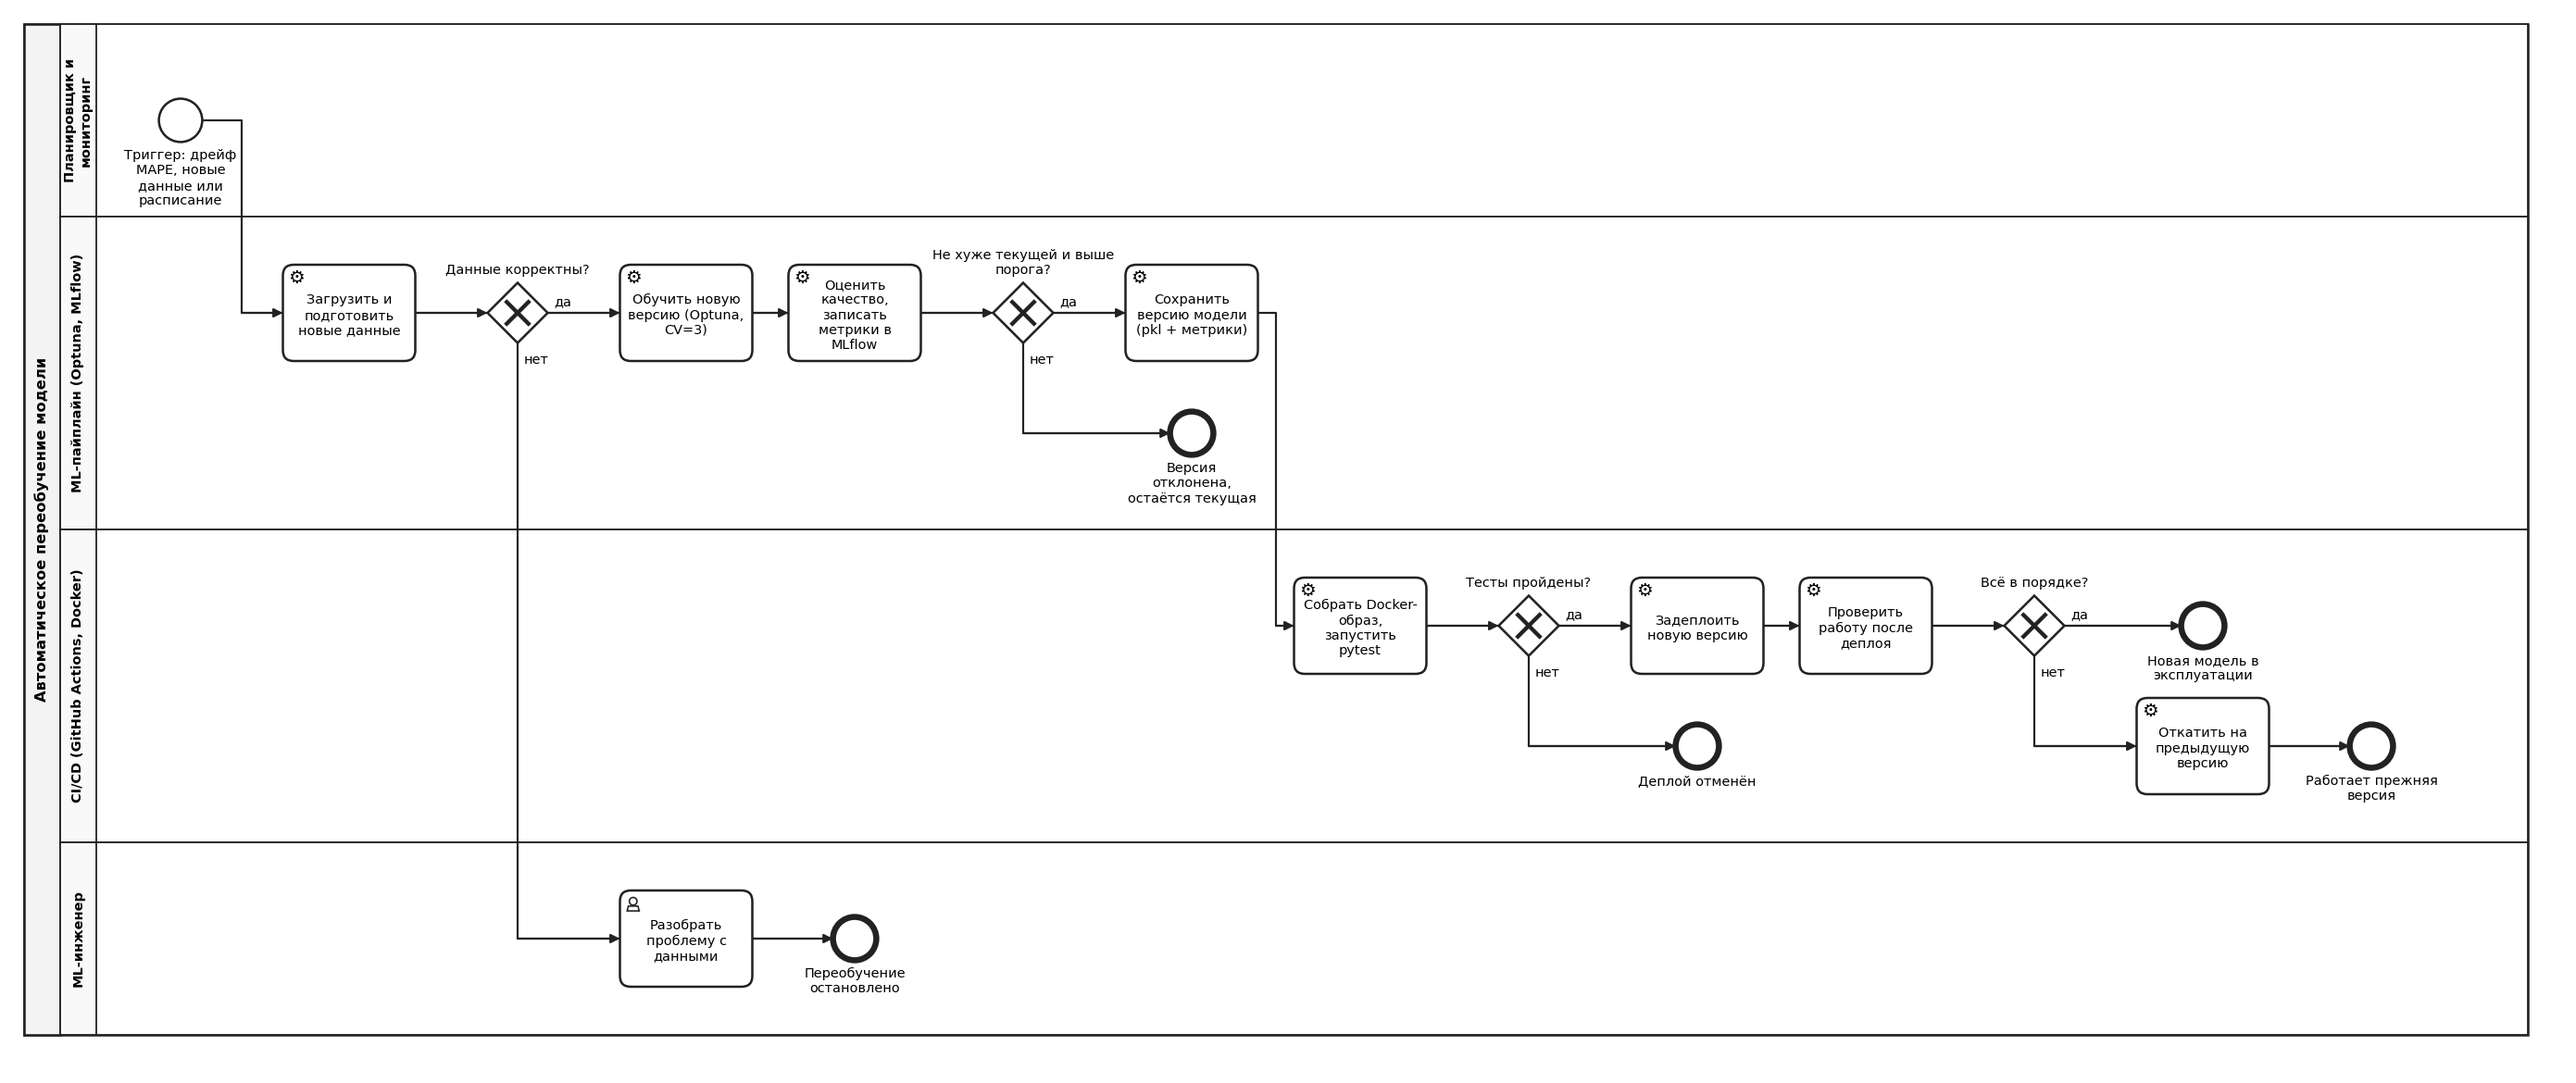
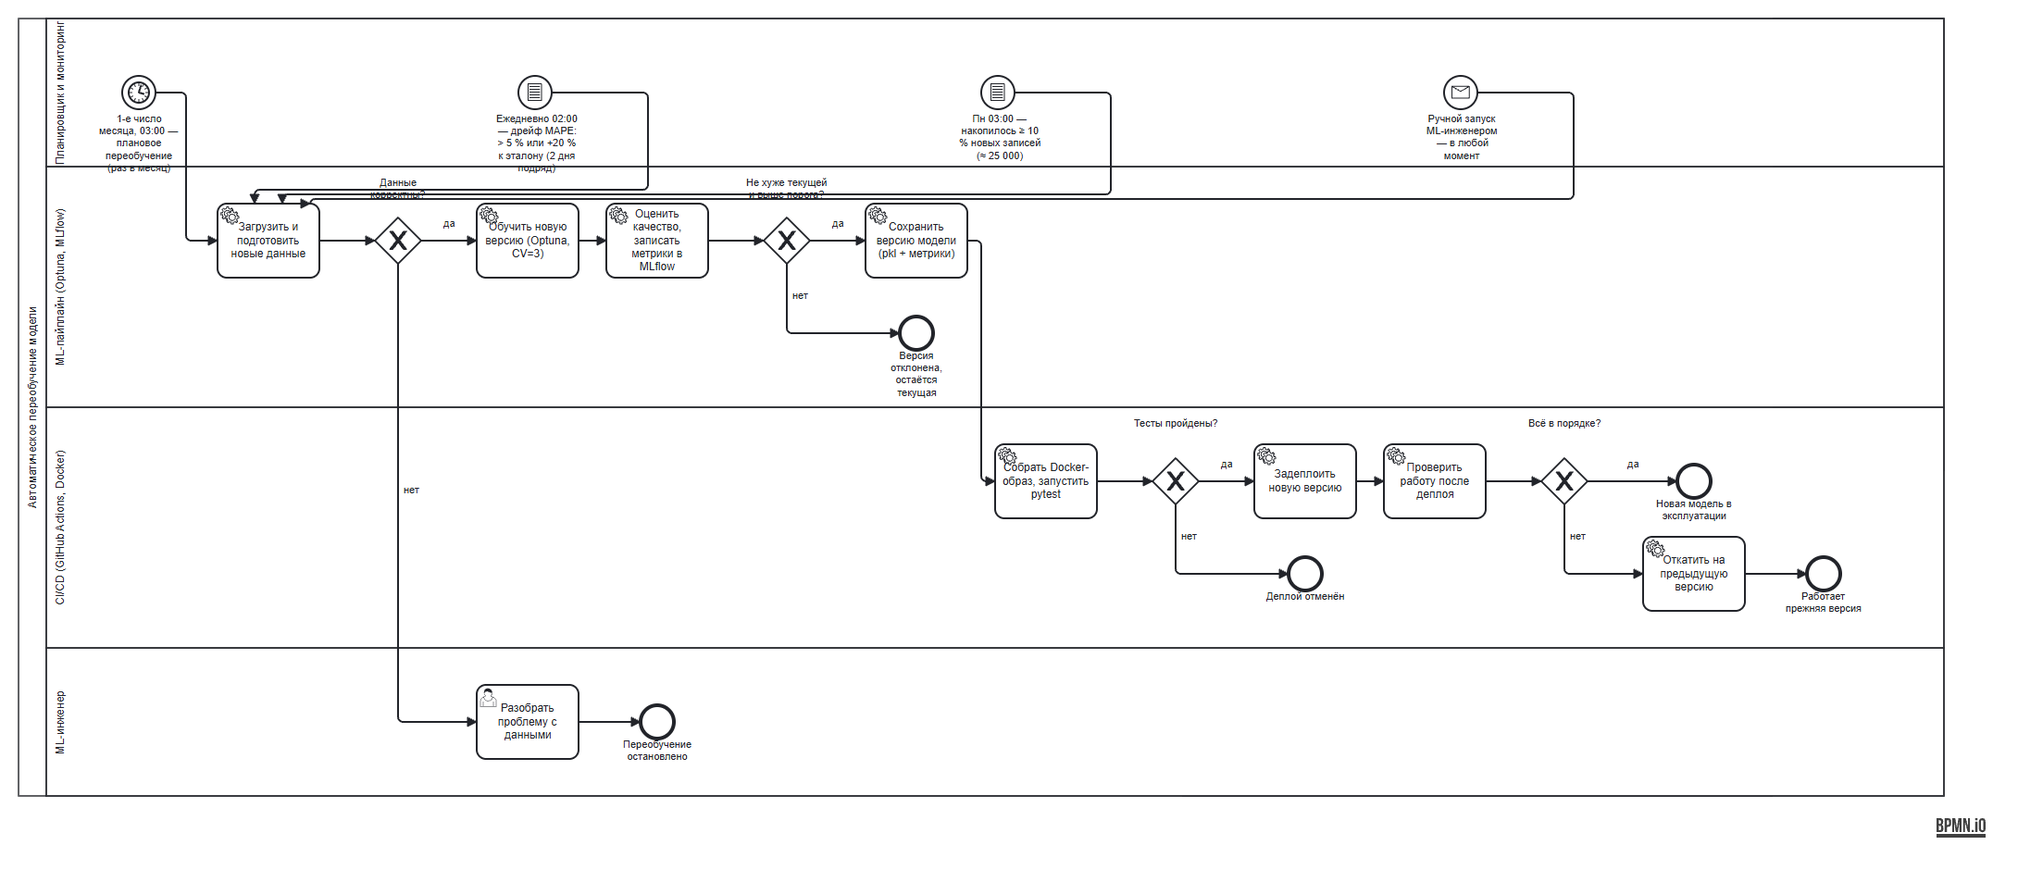
Уточнены триггеры переобучения: условия и периодичность
- Model_retrain_BPMN.md: раздел «Триггеры» — 4 триггера с точными условиями
  и расписанием (плановый 1-го числа 03:00; дрейф MAPE — проверка ежедневно
  02:00; +10% данных — проверка по понедельникам; ручной запуск),
  правила запуска без дублей
- Model_retrain_BPMN.bpmn/png: вместо одного события «Триггер» — 4 стартовых
  события (таймер, условия, сообщение) с подписями расписания
- Model_BPMN.bpmn/png: мониторинг MAPE — каждый день 02:00 (согласовано
  со схемой переобучения)

diff --git a/Model_retrain_BPMN.md b/Model_retrain_BPMN.md
@@ -8,13 +8,31 @@
 
 Исходный файл схемы в формате BPMN 2.0: [diagrams/Model_retrain_BPMN.bpmn](diagrams/Model_retrain_BPMN.bpmn) (открывается в [bpmn.io](https://demo.bpmn.io/) и Camunda Modeler).
 
-Обозначения: круг — событие (тонкий — начало, толстый — конец); скруглённый прямоугольник — задача (шестерёнка — автоматическое действие, значок человека — действие специалиста); ромб с крестом — исключающий шлюз (выбор одного пути); горизонтальные полосы — участники процесса.
+Обозначения: круг — событие (тонкий — начало, толстый — конец); у начальных событий значки показывают тип триггера: часы — таймер (расписание), шестерёнчатый ромб — условие (проверка порога), конверт — сообщение (ручной запуск); скруглённый прямоугольник — задача (шестерёнка — автоматическое действие, значок человека — действие специалиста); ромб с крестом — исключающий шлюз (выбор одного пути); горизонтальные полосы — участники процесса.
+
+## Триггеры: когда именно запускается переобучение
+
+У каждого триггера — точное условие срабатывания и расписание проверки. Все проверки автоматические (таймеры и условия), кроме ручного запуска.
+
+| № | Триггер | Условие срабатывания | Когда проверяется (периодичность) | Результат |
+|---|---|---|---|---|
+| 1 | **Плановый** (таймер) | Всегда — обязательное обновление модели | 1-го числа каждого месяца, 03:00 (cron `0 3 1 * *`) | Полный цикл переобучения, не реже раза в месяц |
+| 2 | **Дрейф качества** (мониторинг MAPE) | MAPE > 5 % **или** рост MAPE > 20 % относительно эталона; условие держится 2 дня подряд (защита от случайных всплесков) | Каждый день, 02:00, по последним 1 000 записям с известной фактической зарплатой | Внеплановое переобучение |
+| 3 | **Накопление новых данных** | С последнего обучения добавилось ≥ 10 % записей (≈ 25 000 к обучающей выборке 247 500) | Каждый понедельник, 03:00 | Переобучение на расширенной выборке |
+| 4 | **Ручной запуск** | Решение ML-инженера: новые признаки, изменение кода или данных | В любой момент | Переобучение по запросу |
+
+**Правила запуска (защита от дублей):**
+- переобучение не запускается параллельно: если цикл уже идёт, новый сигнал остаётся в очереди и стартует после завершения;
+- если сработало несколько триггеров одновременно (например, плановый и дрейф) — выполняется один общий запуск;
+- каждый запуск фиксируется в MLflow с указанием причины (какой триггер сработал).
+
+**Итого периодичность:** мониторинг качества — ежедневно; проверка новых данных — еженедельно; гарантированное полное переобучение — не реже раза в месяц.
 
 ## Этапы: что происходит и что передаётся дальше
 
 | № | Этап | Что происходит | Результат для следующего шага |
 |---|---|---|---|
-| 1 | **Триггер** | Запуск по любому из условий: (а) `check_model_drift()` показал рост MAPE более чем на 20 % (`drift_ratio > 1.2`); (б) накопилось достаточно новых данных (например, +10 % к обучающей выборке); (в) плановый запуск раз в месяц; (г) ручной запуск | Сигнал «переобучить» и причина запуска |
+| 1 | **Триггер** | Запуск по одному из четырёх триггеров (точные условия и расписание — в разделе «Триггеры» ниже) | Сигнал «переобучить» с указанием причины запуска |
 | 2 | **Новые данные** | Загрузка свежих записей, объединение с имеющимися, очистка (пропуски, зарплата ≤ 0, выбросы выше 99-го перцентиля), проверка колонок и типов | Очищенный датасет; при ошибке проверки процесс останавливается |
 | 3 | **Обучение** | `train_test_split` 80/20, Optuna перебирает RandomForest / GradientBoosting / Ridge (20 trials, CV=3), обучается итоговый `Pipeline` | Обученная модель-кандидат и лучшие параметры |
 | 4 | **Проверка качества** | Расчёт RMSE, MAE, R², MAPE на тесте, сравнение с текущей моделью в эксплуатации, запись в MLflow | Метрики кандидата и таблица «кандидат vs текущая» |

diff --git a/Model_BPMN.md b/Model_BPMN.md
@@ -22,6 +22,6 @@
 **Как результат используется дальше.**
 - Прогноз (число в USD) показывается HR-специалисту как ориентир; окончательное решение остаётся за человеком.
 - На его основе формируется зарплатная вилка вакансии и планируется ФОТ.
-- Фактические зарплаты и ошибка прогноза возвращаются в мониторинг: при росте ошибки запускается процесс переобучения.
+- Фактические зарплаты и ошибка прогноза возвращаются в мониторинг (проверка MAPE каждый день): при росте ошибки более чем на 20 % запускается процесс переобучения (`Model_retrain_BPMN.md`).
 
 Подробности о модели: `model_card.md`.
